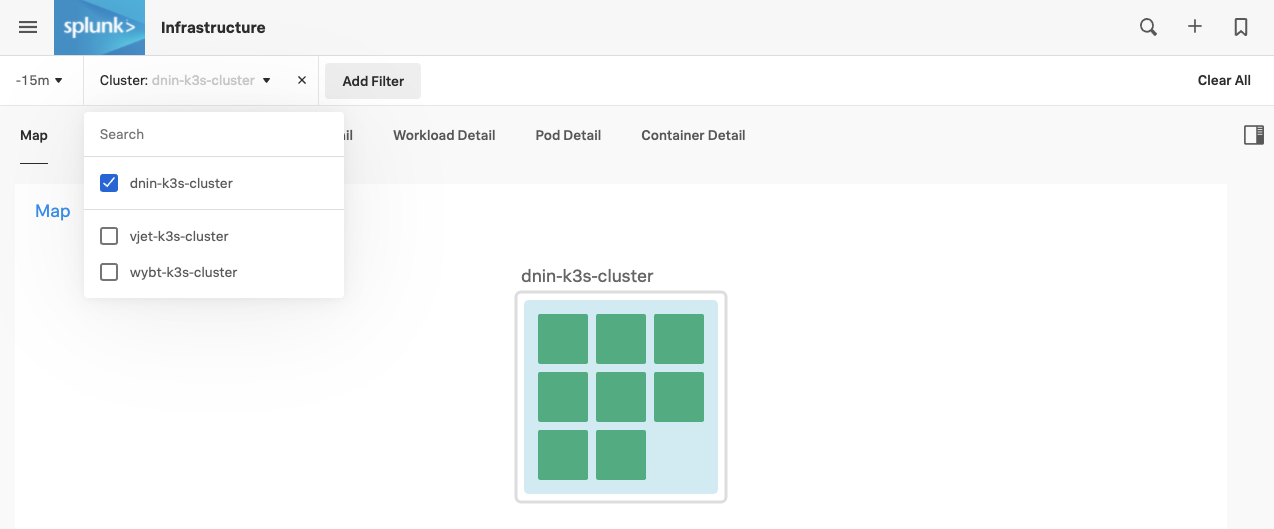
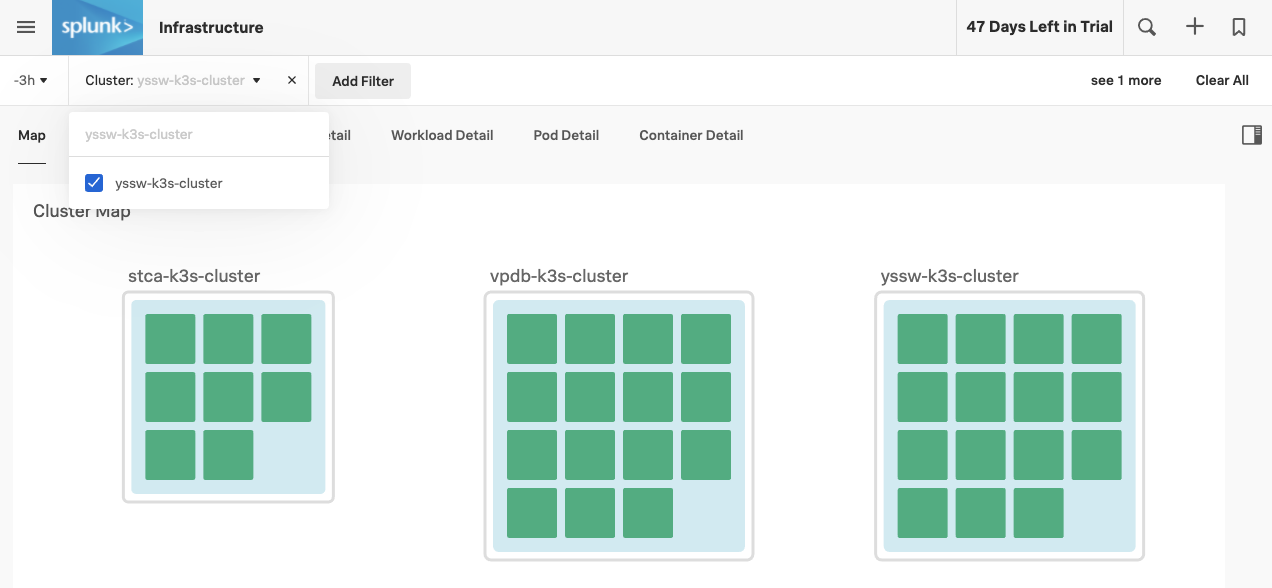
Fixed issue #49

diff --git a/docs/otel/k3s.md b/docs/otel/k3s.md
@@ -151,7 +151,13 @@ Validate that your cluster is discovered and reporting by finding your cluster (
     echo $(hostname)-k3s-cluster
     ```
 
-![K8S Clusters Filter](../images/otel/selecting-k3s-cluster.png)
+Then in the UI, click on the "Cluster: - " menu just below the Splunk Logo, and paste the Cluster name you just copied into the search box, click the box to select your cluster, and finally click off the menu into white space to apply the filter.
+
+![K8S Clusters Filter](../images/otel/search-k3s-cluster.png)
+
+![Select K8S Cluster](../images/otel/selecting-k3s-cluster.png)
+
+![Filtered K8S Cluster](../images/otel/filtered-k3s-cluster.png)
 
 To examine the health of your node, first click on the blue cross ![blue cross](../images/otel/blue-cross.png) on your cluster.
 
